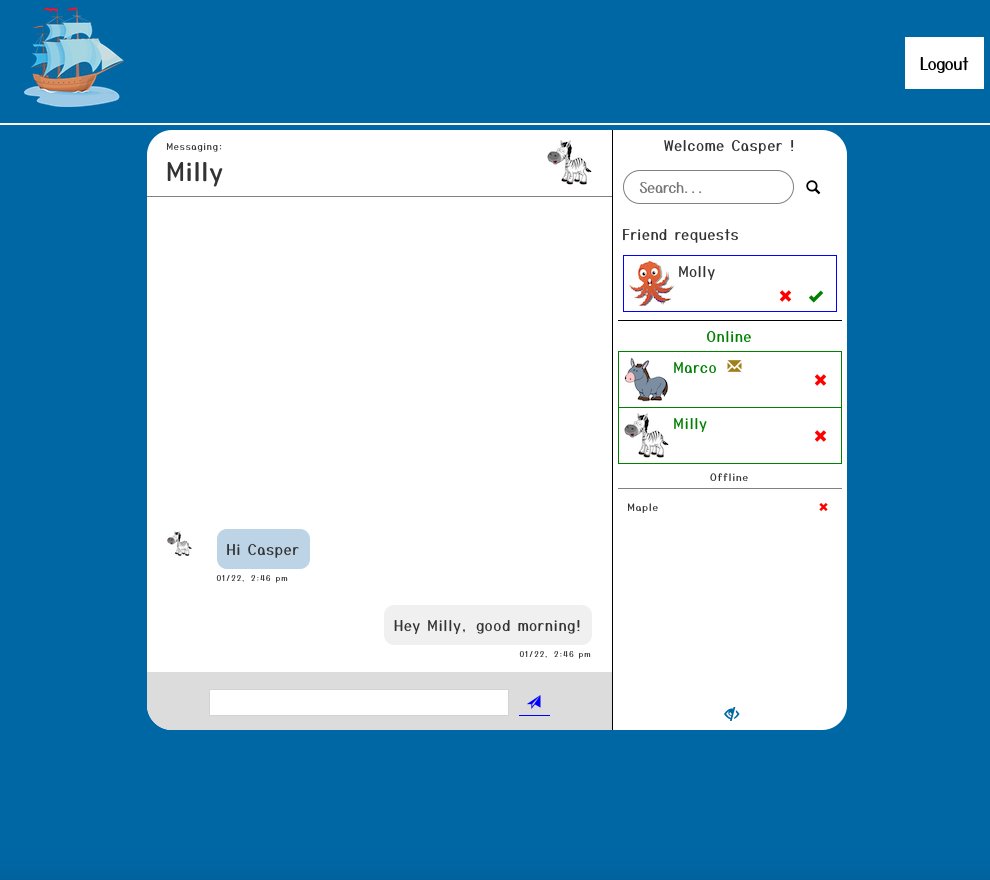
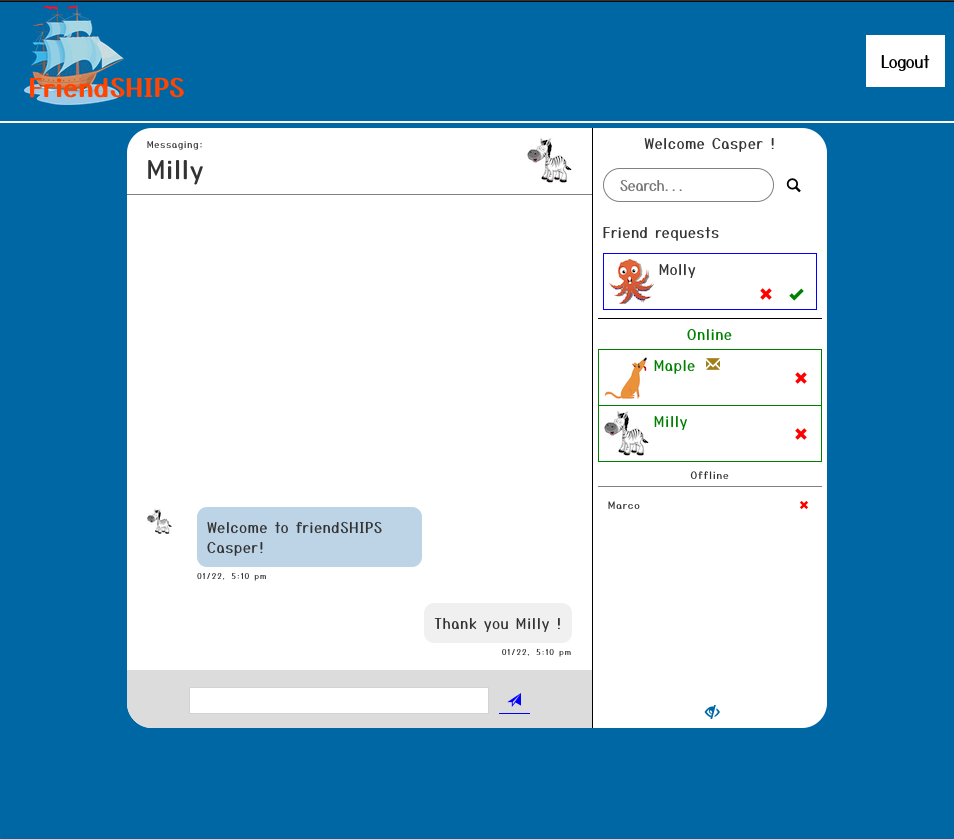
added picture, fixed order of projects

Changed region(s): [[0.0, 0.0, 1.0, 0.8677]]

diff --git a/src/containers/Projects/ProjectsInfo/ProjectsInfo.js b/src/containers/Projects/ProjectsInfo/ProjectsInfo.js
@@ -49,7 +49,7 @@ const easyBudget = {
 
 
 
-const projectsInfo = [iSpace, iHostel, friendSHIPS, usaf, easyBudget, employeeDirectory]
+const projectsInfo = [friendSHIPS, iHostel, iSpace, usaf, easyBudget, employeeDirectory]
 
 
 
